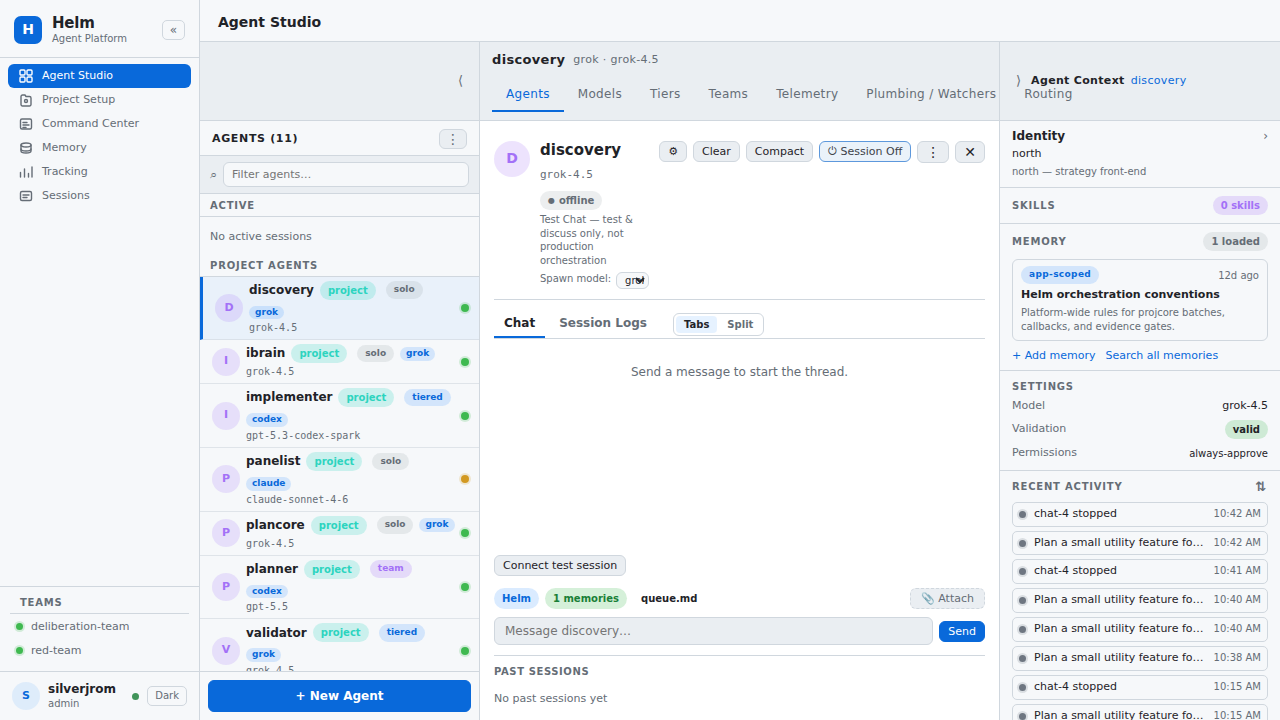
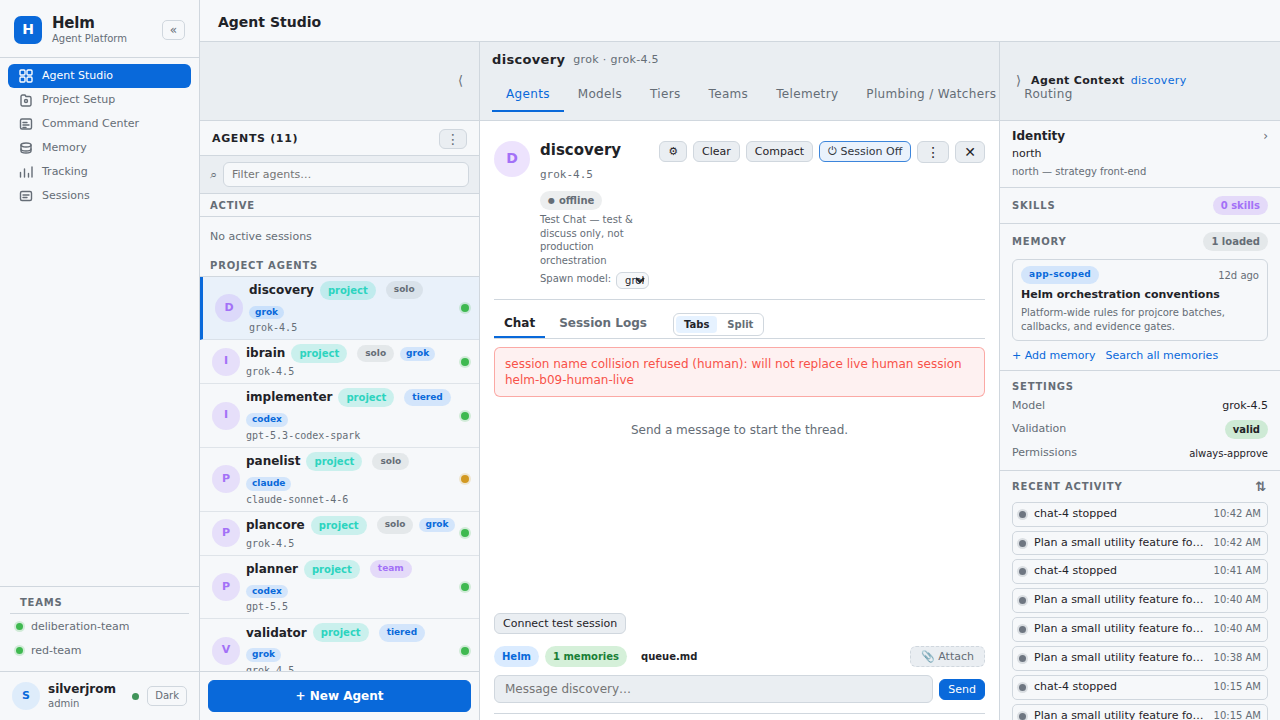
fix(B09): make collision refusal fully readable in viewport (fix1)
Move Studio/CC session error banners under initiating controls with
flex-shrink:0 styling; assert bounding box fully inside default 720px
viewport; re-capture human-readable evidence.

diff --git a/src/web/public/app.js b/src/web/public/app.js
@@ -2120,6 +2120,28 @@ function App() {
 
   useEffect(() => { chatTmuxSessionRef.current = chatTmuxSession; }, [chatTmuxSession]);
 
+  // B09 fix1 / AC12: keep refusal banners fully readable (scroll into view if layout still overflows).
+  useEffect(() => {
+    if (!chatErr) return;
+    const id = requestAnimationFrame(() => {
+      const el = document.querySelector('[data-testid="chat-err"]');
+      if (el && typeof el.scrollIntoView === 'function') {
+        el.scrollIntoView({ block: 'nearest', inline: 'nearest' });
+      }
+    });
+    return () => cancelAnimationFrame(id);
+  }, [chatErr]);
+  useEffect(() => {
+    if (!ccErr) return;
+    const id = requestAnimationFrame(() => {
+      const el = document.querySelector('[data-testid="cc-session-err"]');
+      if (el && typeof el.scrollIntoView === 'function') {
+        el.scrollIntoView({ block: 'nearest', inline: 'nearest' });
+      }
+    });
+    return () => cancelAnimationFrame(id);
+  }, [ccErr]);
+
   useEffect(() => {
     if (!token || !currentSlug.startsWith('02-studio')) return;
     loadActiveSessions();
@@ -6954,6 +6976,8 @@ function App() {
                 <button data-testid="cc-fav-toggle" class="btn btn-sm" style="padding:3px 6px;font-size:11px;" title="Toggle ⭐ favorite for the selected agent (pins it near the top)" disabled=${!selAid || isCcBrainAgent(pid, selAid)} onclick=${()=>toggleCcFav(selAid)}>${ccFavAgents.includes(selAid) ? '⭐' : '☆'}</button>
                 <button data-testid="cc-session-toggle" class="btn btn-sm" style=${`padding:3px 8px;font-size:10px;white-space:nowrap;${ccSessOn ? 'color:#3fb950;border-color:#3fb950;' : ''}`} disabled=${ccConnecting} aria-pressed=${ccSessOn ? 'true' : 'false'} title=${ccSessOn ? 'Session ON — click to shut down the agent session' : 'Session OFF — click to spawn the agent in a fenced project session'} onclick=${()=>ccToggleSession(pid)}>${ccConnecting ? '⏳ Connecting…' : ccSessOn ? '⏻ Session On' : '⏻ Session Off'}</button>
               </div>
+              ${/* B09 fix1 / AC12: session refusal next to Session On (not clipped under the fold) */ ''}
+              ${ccErr ? html`<div data-testid="cc-session-err" role="alert" style="flex-shrink:0;color:#f85149;font-size:11px;line-height:1.35;padding:6px 8px;margin:0 0 4px;border:1px solid rgba(248,81,73,.45);border-radius:6px;background:rgba(248,81,73,.08);white-space:pre-wrap;word-break:break-word">${ccErr}</div>` : null}
               <div style="display:flex;gap:4px;margin-bottom:3px;align-items:center;">
                 <button data-testid="cc-clear-ctx" class="btn btn-sm" style="padding:2px 6px;font-size:9px;" disabled=${!ccSessOn} title=${ccSessOn ? "Clear this session's context" : 'Turn on a session to enable Clear'} onclick=${()=>ccCtxAction(pid,'clear')}>Clear</button>
                 <button data-testid="cc-compact-ctx" class="btn btn-sm" style="padding:2px 6px;font-size:9px;" disabled=${!ccSessOn} title=${ccSessOn ? "Compact this session's context" : 'Turn on a session to enable Compact'} onclick=${()=>ccCtxAction(pid,'compact')}>Compact</button>
@@ -6994,7 +7018,6 @@ function App() {
           </div>
         </div>
 
-        ${ccErr && html`<div data-testid="cc-session-err" style="color:#f85149;font-size:11px;padding:4px 8px;border-top:1px solid var(--border);">${ccErr}</div>`}
         ${!pid ? html`<div class="inline-note" style="padding:3px 6px;font-size:10px;">Select project in left sidebar (or open idle) to load chat + live terminal feed. 3-way above controls panes.</div>` : null}
       </div>
     </div>`;
@@ -8209,6 +8232,8 @@ function App() {
           ` : null}
           ${chatTmuxSession ? html`<span class="as-chat-tmux-attach" data-testid="as-chat-tmux-attach" title="This agent's tmux session — attach in a terminal">tmux: <code>${chatTmuxSession}</code><button class="as-chat-tmux-copy" type="button" title="Copy attach command" onclick=${() => { try { navigator.clipboard.writeText('tmux attach -t ' + chatTmuxSession); setChatErr('Copied: tmux attach -t ' + chatTmuxSession); } catch {} }}>⧉ attach</button></span>` : null}
         </div>
+        ${/* B09 fix1 / AC12: collision refusal under header (not after past-sessions below the fold) */ ''}
+        ${chatErr ? html`<div data-testid="chat-err" role="alert" style="flex-shrink:0;color:#f85149;font-size:12px;line-height:1.35;padding:8px 10px;margin:0 0 8px;border:1px solid rgba(248,81,73,.45);border-radius:6px;background:rgba(248,81,73,.08);white-space:pre-wrap;word-break:break-word">${chatErr}</div>` : null}
         ${(() => {
           const logsPre = html`<pre data-testid="as-chat-logs" class="as-chat-logs">${chatLogs || (chatSid ? 'Loading session logs…' : 'No live session — turn the session On to view its tmux logs.')}</pre>`;
           const chatThread = html`
@@ -8255,8 +8280,7 @@ function App() {
                       </div>`;
                   })
                 : html`<div data-testid="as-past-sessions-empty" class="as-past-sessions-empty">No past sessions yet</div>`}
-            </div>
-            ${chatErr ? html`<div data-testid="chat-err" style="color:#f85149;font-size:12px;margin-top:6px">${chatErr}</div>` : null}`;
+            </div>`;
           if (effectiveChatCenterMode === 'split') {
             const splitLogsW = clampChatLogsWidth(chatLogsWidth, chatCenterSplitRef.current?.offsetWidth || 900);
             return html`

diff --git a/e2e/B09.live.spec.ts b/e2e/B09.live.spec.ts
@@ -123,13 +123,35 @@ test.describe('B09 live: human collision refusal visible (intercepted :3110)', (
     expect(errText).toMatch(/collision|will not replace|human/i);
     expect(errText).not.toMatch(/^fetch fail$/i);
 
+    // B09 fix1 / AC12: refusal must be fully human-readable in the default viewport
+    // (Desktop Chrome 1280×720). toBeVisible alone is insufficient when the box is clipped.
+    await err.evaluate((el) => {
+      if (typeof (el as HTMLElement).scrollIntoView === 'function') {
+        (el as HTMLElement).scrollIntoView({ block: 'nearest', inline: 'nearest' });
+      }
+    });
+    const box = await err.boundingBox();
+    expect(box, 'chat-err must have a layout box').toBeTruthy();
+    const vp = page.viewportSize();
+    expect(vp, 'viewport size required for readability assert').toBeTruthy();
+    expect(box!.height).toBeGreaterThan(10);
+    expect(box!.width).toBeGreaterThan(40);
+    expect(box!.y).toBeGreaterThanOrEqual(0);
+    expect(box!.x).toBeGreaterThanOrEqual(0);
+    expect(box!.y + box!.height).toBeLessThanOrEqual(vp!.height + 0.5);
+    expect(box!.x + box!.width).toBeLessThanOrEqual(vp!.width + 0.5);
+
     // At least one create POST was intercepted (never live).
     expect(createPosts.length).toBeGreaterThanOrEqual(1);
     expect(createPosts.every((p) => p.method === 'POST')).toBe(true);
 
     const shotName = 'B09-human-collision-refusal';
     const png = path.join(EVIDENCE_DIR, `${shotName}.png`);
-    await page.screenshot({ path: png, fullPage: true });
+    const cropPng = path.join(EVIDENCE_DIR, `${shotName}-banner.png`);
+    // Viewport capture (not fullPage) so the proof matches what a human sees at :3110 default size.
+    await page.screenshot({ path: png, fullPage: false });
+    await err.screenshot({ path: cropPng });
     fs.copyFileSync(png, path.join(PLAN_DIR_EVIDENCE, `${shotName}.png`));
+    fs.copyFileSync(cropPng, path.join(PLAN_DIR_EVIDENCE, `${shotName}-banner.png`));
   });
 });

diff --git a/validation/B09/validation.md b/validation/B09/validation.md
@@ -1,0 +1,68 @@
+# B09 Validation - AC12 Collision Refusal UI
+
+Verdict: FAIL
+
+Tip validated: `587fa8e129e52724005c57380734ff2335a29337`
+
+## Evidence Reviewed
+
+- `git show 587fa8e` confirms B09 changed:
+  - `src/index.ts`
+  - `src/web/public/app.js`
+  - `src/b09-collision-refusal-api.test.ts`
+  - `e2e/B09.live.spec.ts`
+- `plan/janitor-audit-remediation/validation/B09/changes.md` reviewed.
+- `playwright.cap.config.ts` reviewed: base URL is `http://127.0.0.1:3110`; default `playwright.config.ts` targets `3111`.
+- Screenshot reviewed: `plan/janitor-audit-remediation/validation/B09/B09-human-collision-refusal.png`.
+
+## Checks Run
+
+```text
+node --check src/web/public/app.js
+PASS
+
+HELM_SESSION_JANITOR=0 npx vitest run src/b09-collision-refusal-api.test.ts
+PASS - 3/3 tests
+
+npm run build
+PASS - exited 0; existing tools/helm-sandbox.c warning only
+
+HELM_SESSION_JANITOR=0 npx playwright test e2e/B09.live.spec.ts --config=playwright.cap.config.ts
+PASS - 1/1 tests
+```
+
+Additional DOM probe with the same intercepted 409 body:
+
+```json
+{
+  "text": "session name collision refused (human): will not replace live human session helm-b09-human-live",
+  "box": {
+    "x": 494,
+    "y": 717.5,
+    "width": 491,
+    "height": 36
+  },
+  "toggle": "Session Off"
+}
+```
+
+## Findings
+
+1. API mapping passes.
+   - Both chat-session create surfaces map `SessionNameCollisionError` to HTTP `409`.
+   - Stable body includes `code: SESSION_NAME_COLLISION`, `reason`, and `session_name`.
+   - Non-collision create failure remains `500` in the focused API test.
+
+2. Playwright cap contract passes.
+   - B09 e2e uses `playwright.cap.config.ts`.
+   - The spec asserts `:3110`, rejects `:3111`, and intercepts create POSTs with synthetic `409` responses.
+   - No evidence of real session create/close in the B09 proof path.
+
+3. UI implementation sets the correct error text, but the human-visible proof fails.
+   - The saved screenshot does not visibly show the refusal message.
+   - A follow-up DOM probe confirms `chat-err` contains the correct text, but its bounding box starts at `y=717.5` in a `720px` viewport, so the message is effectively clipped at the bottom of the captured UI.
+   - Playwright `toBeVisible()` passed because the element exists and intersects the viewport, but the evidence does not prove a readable human-session refusal in the initiating UI.
+
+## Result
+
+FAIL - AC12 API behavior is correct and tests pass, but the UI evidence does not prove a readable human-visible collision refusal. The `chat-err` placement needs to be adjusted or the proof needs to capture the readable error state.
